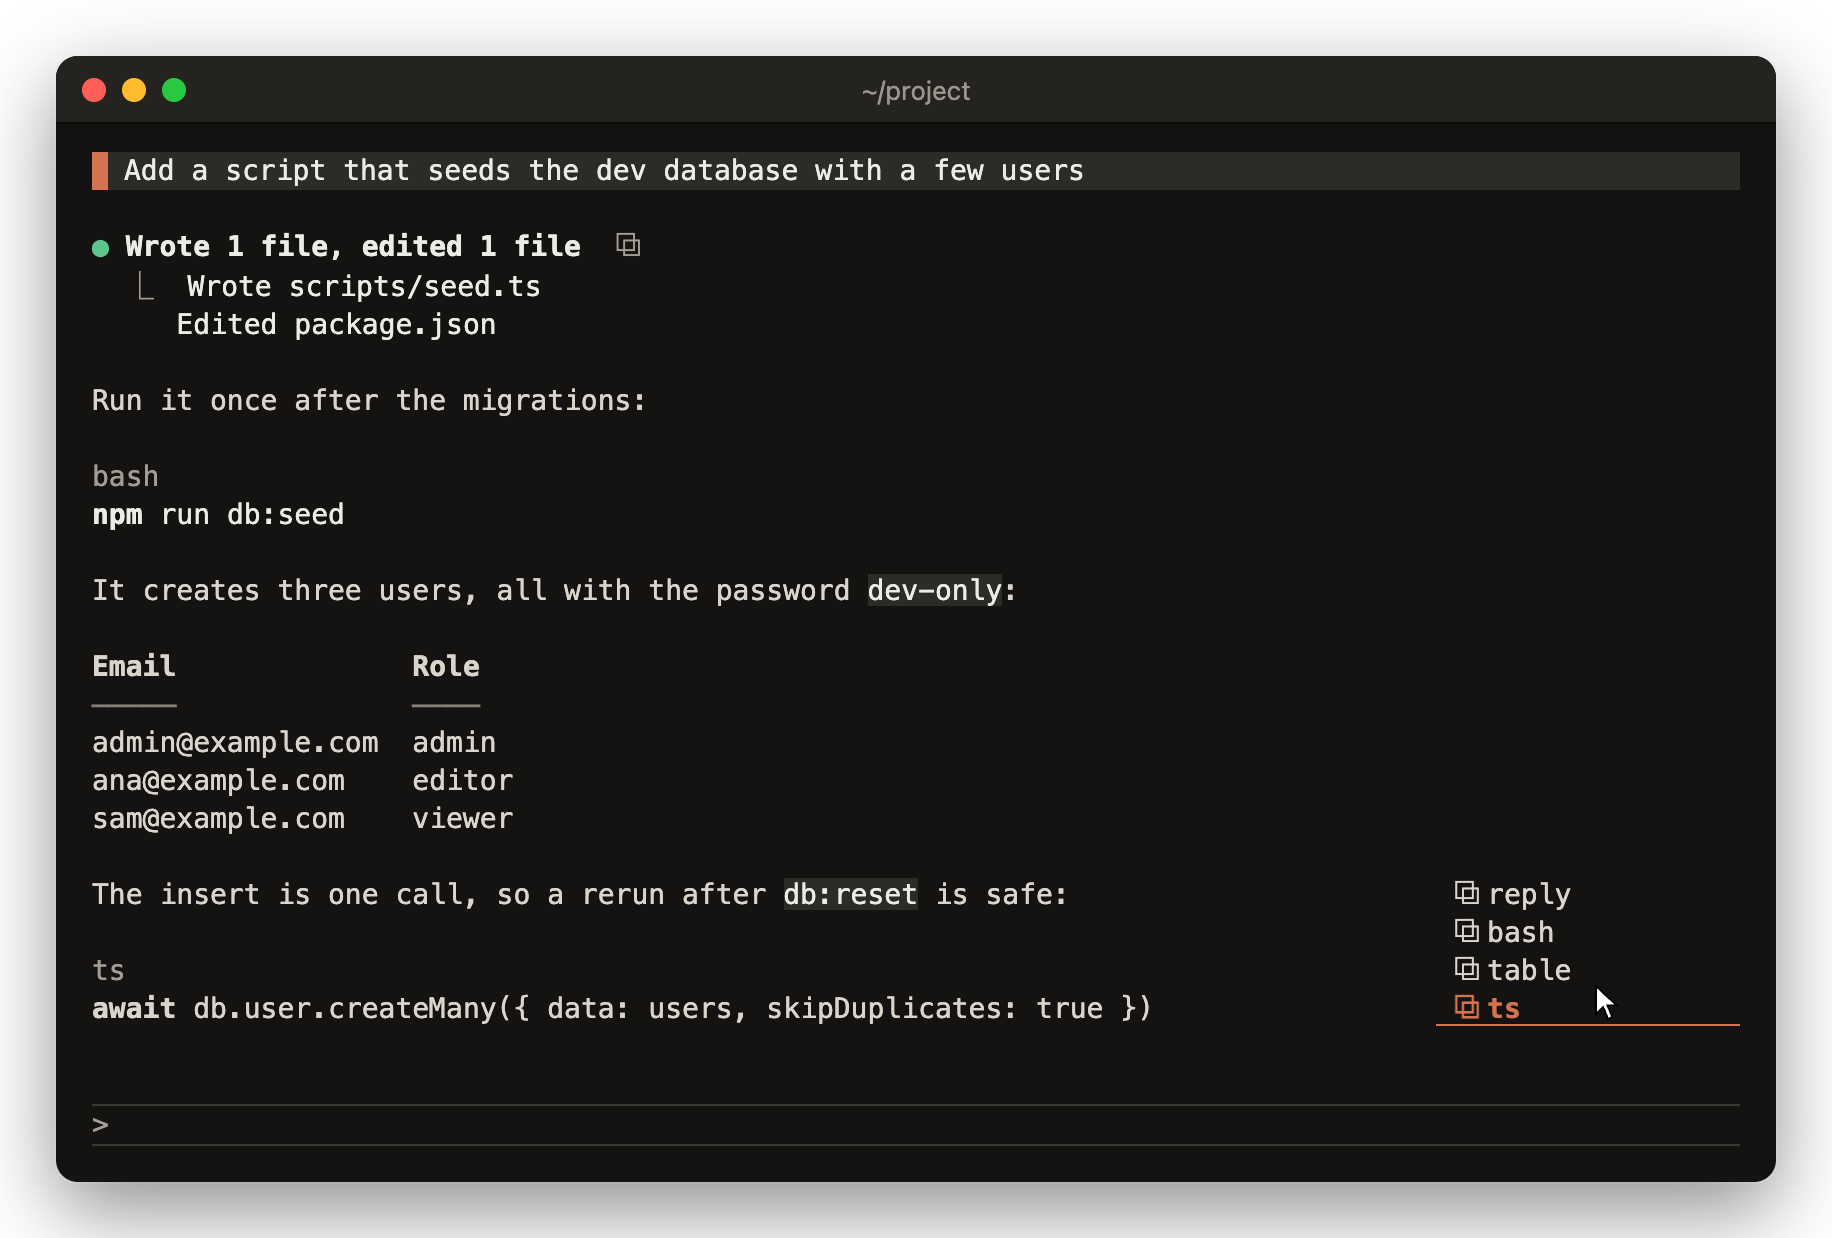
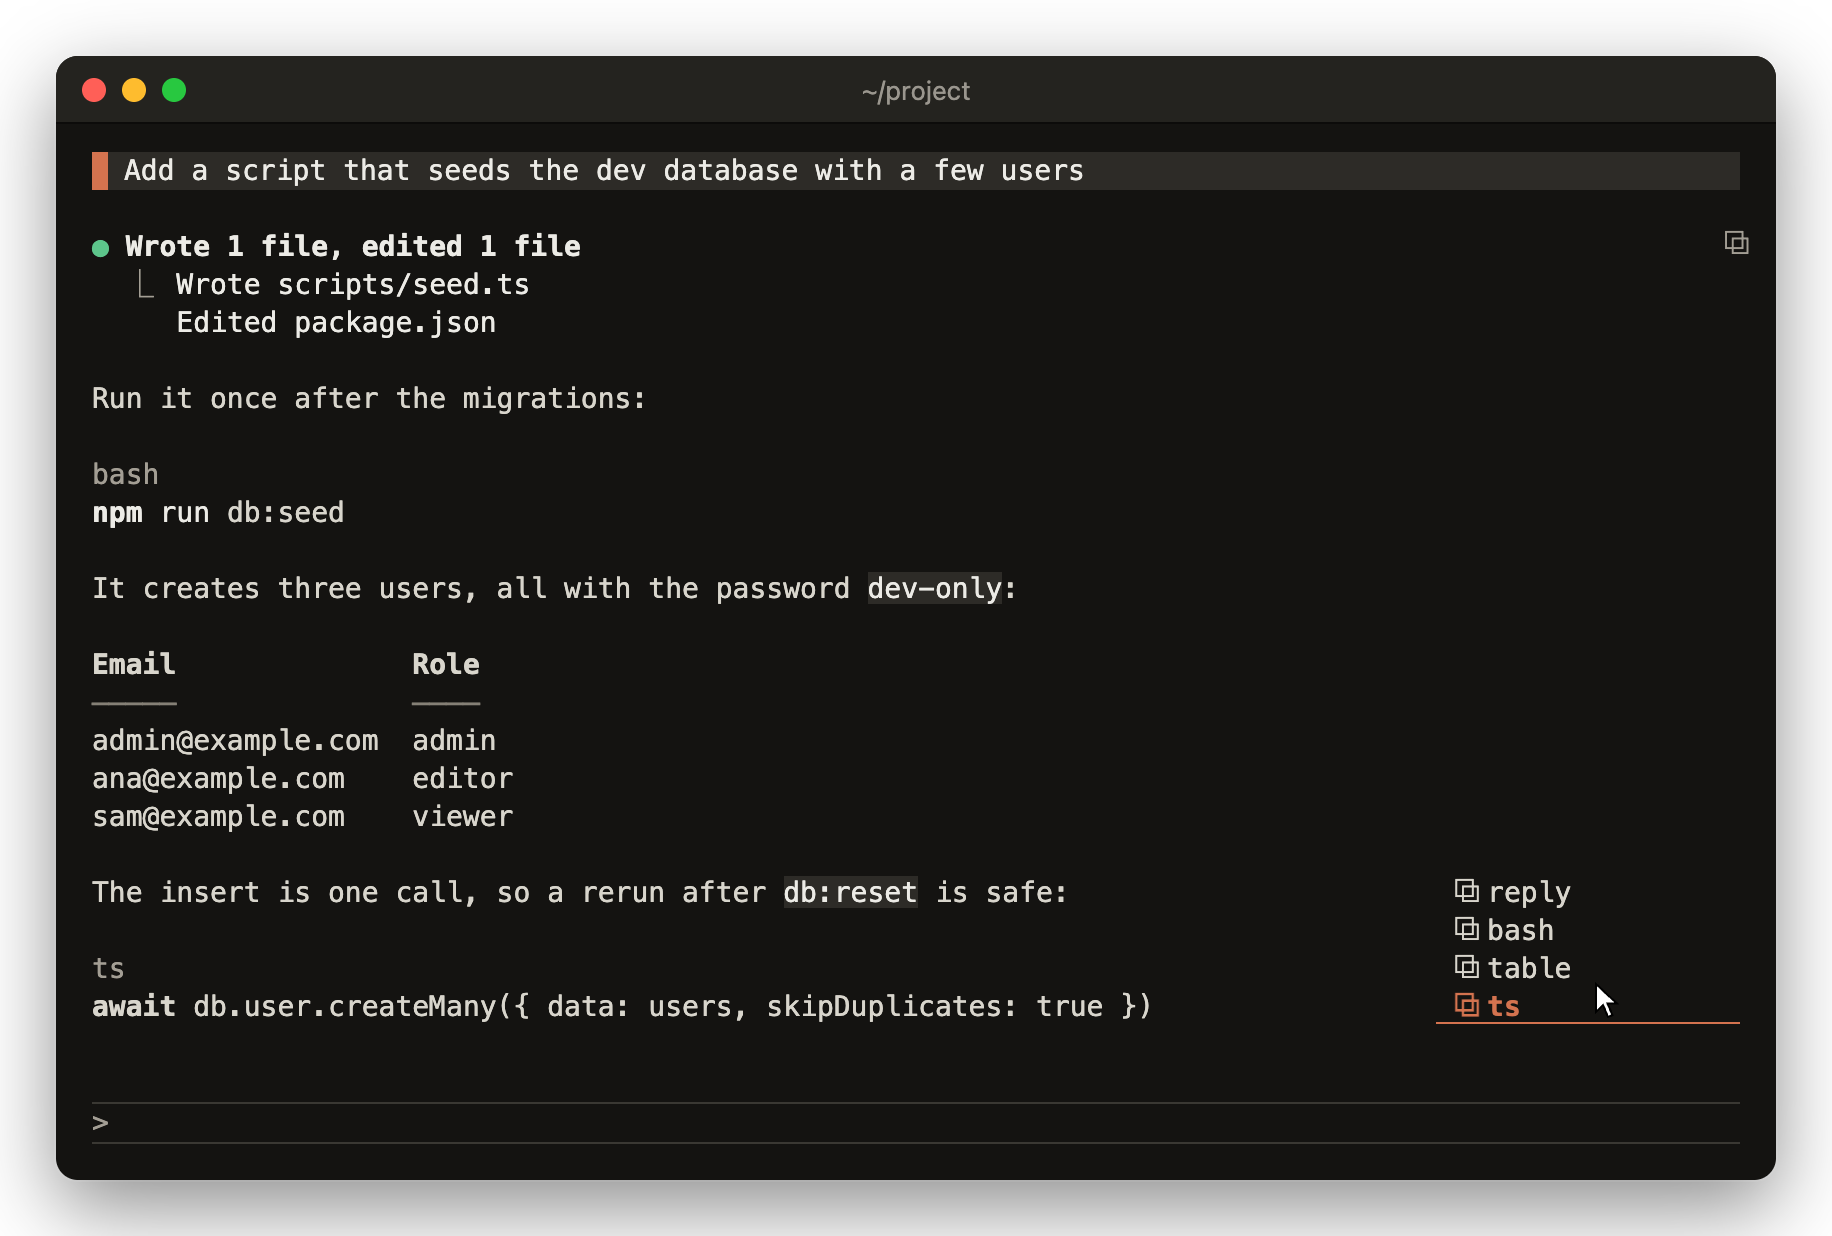
[Doc] Move the tool group's ⧉ to the right edge in the copy-that screen

diff --git a/docs/screens/src/copy-that.html b/docs/screens/src/copy-that.html
@@ -13,14 +13,14 @@
 <div class="term">
 <div class="prompt"><div class="edge"></div><div class="body">Add a script that seeds the dev database with a few users</div></div>
 <div class="gap"></div>
-<div class="l"><span class="ok">●</span> <span class="s b">Wrote 1 file, edited 1 file</span>  <span class="m sym">⧉</span></div>
-<div class="l"><span class="m">  ⎿  </span><span class="s">Wrote</span> <span class="s">scripts/seed.ts</span></div>
+<div class="l row"><span><span class="ok">●</span> <span class="s b">Wrote 1 file, edited 1 file</span></span><span class="m sym">⧉</span></div>
+<div class="l"><span class="m">  <span class="cell">⎿</span>  </span><span class="s">Wrote</span> <span class="s">scripts/seed.ts</span></div>
 <div class="l">     <span class="s">Edited</span> <span class="s">package.json</span></div>
 <div class="gap"></div>
 <div class="l">Run it once after the migrations:</div>
 <div class="gap"></div>
 <div class="l"><span class="m">bash</span></div>
-<div class="l"><span class="s b">npm</span> <span class="s">run</span> <span class="s">db:seed</span></div>
+<div class="l"><span class="s b">npm</span> <span class="s">run</span> <span class="t">db:seed</span></div>
 <div class="gap"></div>
 <div class="l">It creates three users, all with the password <span class="chip">dev-only</span>:</div>
 <div class="gap"></div>
